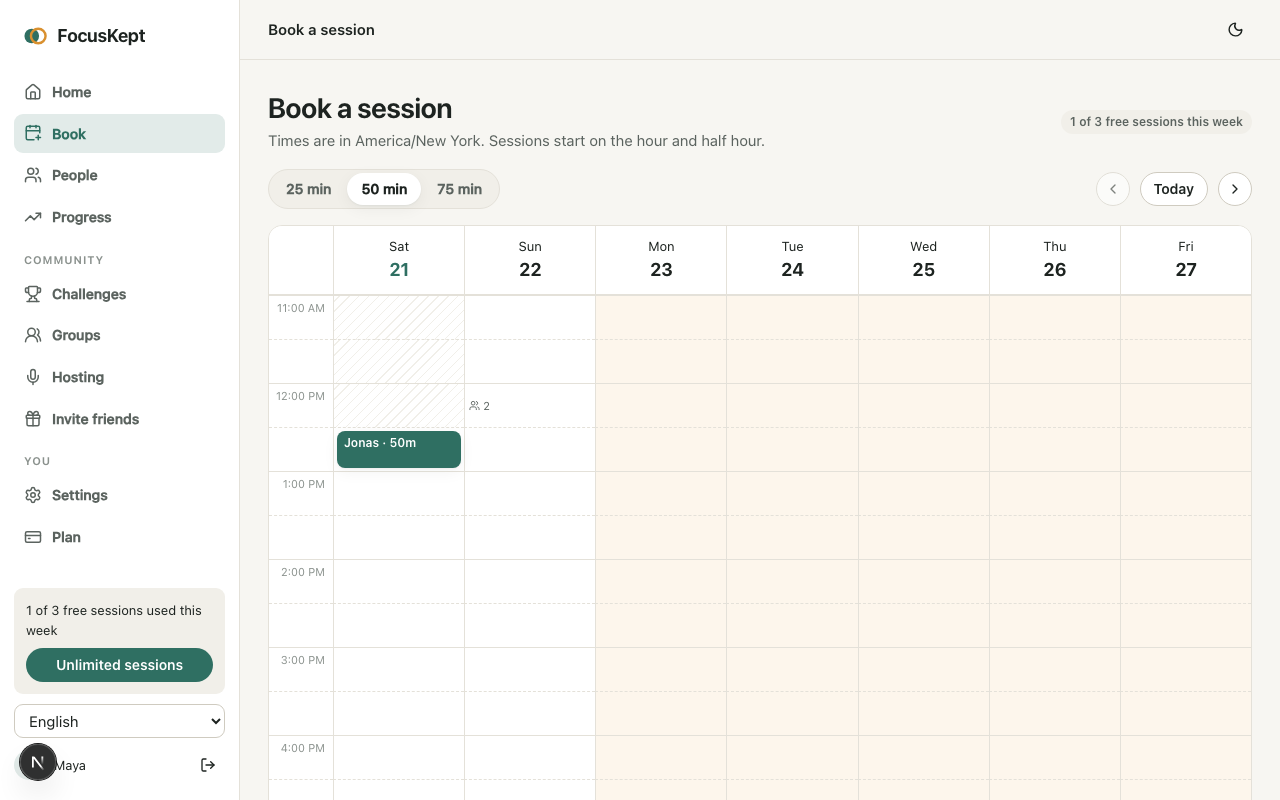
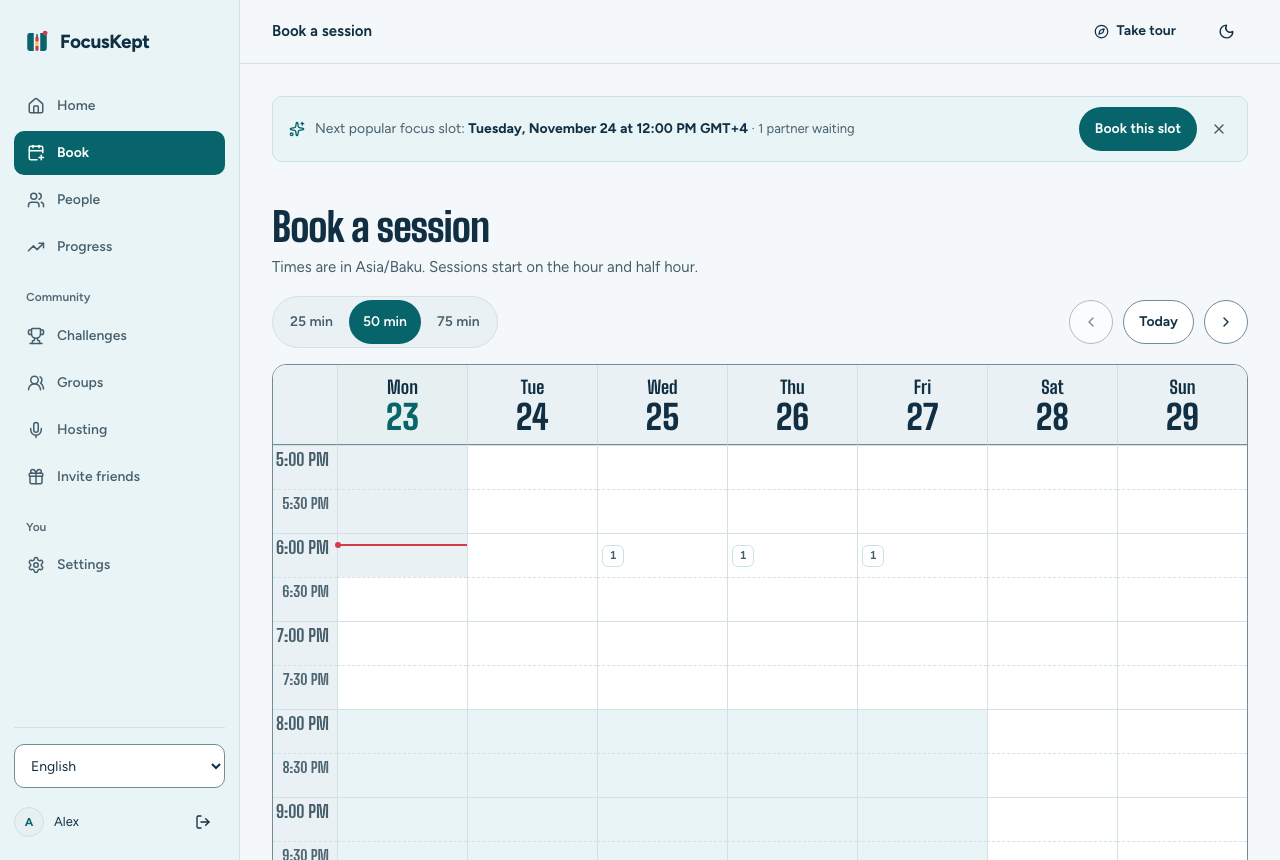
Refresh README screenshots and add the production Compose guide

diff --git a/README.md b/README.md
@@ -2,6 +2,8 @@
 
 FocusKept is an open-source virtual coworking and body doubling app. Book a time, get paired with a partner, say your goal, work on camera, and report back at the end. Sessions last 25, 50, or 75 minutes. Video is never recorded. The product name comes from configuration and defaults to FocusKept.
 
+Use the hosted version at [focuskept.com](https://focuskept.com) or run your own copy with Docker Compose.
+
 ## Features
 
 - Scheduled partner matching and hosted group sessions.
@@ -21,7 +23,7 @@ The room screenshot uses the browser's test camera.
 
 ## Hosted version
 
-Use [focuskept.com](https://focuskept.com).
+[focuskept.com](https://focuskept.com) runs the latest `main`. It is free during early access.
 
 ## Self-hosting quick start
 
@@ -34,6 +36,23 @@ docker compose --env-file .env.local up
 ```
 
 In another terminal, run `pnpm local:migrate` to apply migrations. See [SELF_HOSTING.md](SELF_HOSTING.md) for deployment and video configuration.
+
+## Running in production with Docker Compose
+
+The app and the background worker run from one image next to PostgreSQL. `deploy/compose.production.yaml` defines all three services and expects an HTTPS reverse proxy (the examples use Caddy) on an external Docker network named `proxy`.
+
+```sh
+# On your machine: generate the deployment bundle and build an image for the server's architecture
+pnpm setup -- --name "My Coworking" --slug my-coworking --domain coworking.example.com --repository yourname/yourrepo
+docker build --platform linux/arm64 -t local/my-coworking:$(git rev-parse HEAD) .
+
+# On the server, inside the copied deploy directory
+bash configure-runtime.sh https://coworking.example.com local/my-coworking:<commit>   # fills runtime.env once
+docker compose --env-file .env -f compose.production.yaml run --rm --no-deps app node scripts/migrate.cjs
+bash deploy.sh local/my-coworking:<commit>                                           # health-checked, rolls back on failure
+```
+
+You need a domain, a [Resend](https://resend.com) account with a verified sender for sign-in emails, and a video provider (Cloudflare Realtime or self-hosted LiveKit). Billing is optional: with `BILLING_ENABLED=false` everyone gets unlimited sessions. [SELF_HOSTING.md](SELF_HOSTING.md) and [DEPLOY.md](DEPLOY.md) cover every setting, backups and video setup.
 
 ## Development
 
@@ -75,6 +94,10 @@ Integration and browser tests use an isolated database whose name ends in `_test
 
 See [CONTRIBUTING.md](CONTRIBUTING.md) for setup, checks, and pull requests.
 
+## Security
+
+Please report vulnerabilities privately as described in [SECURITY.md](SECURITY.md).
+
 ## License
 
-[AGPL-3.0-only](LICENSE).
+FocusKept is licensed under [AGPL-3.0-only](LICENSE). You may use, change and host it. If you run a modified version as a service for other people, you must offer them the source code of your version under the same license.
